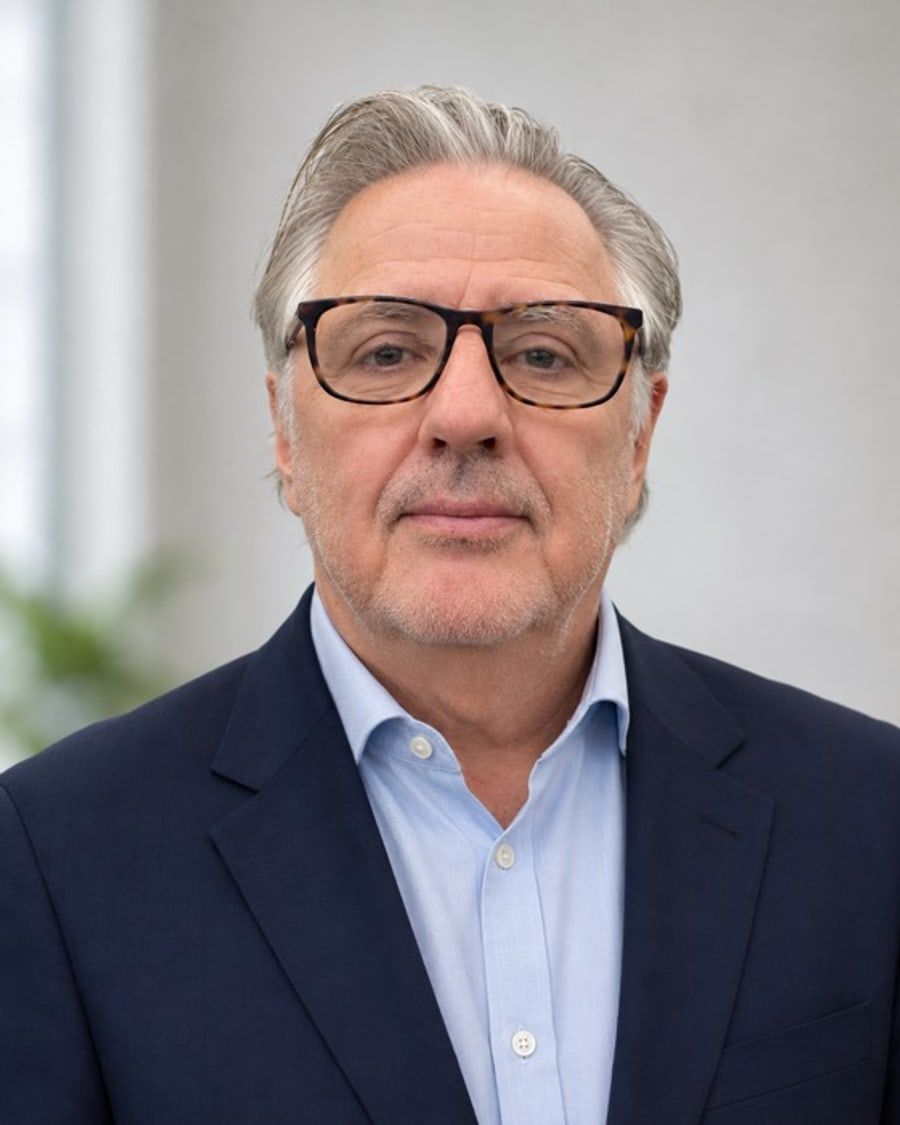
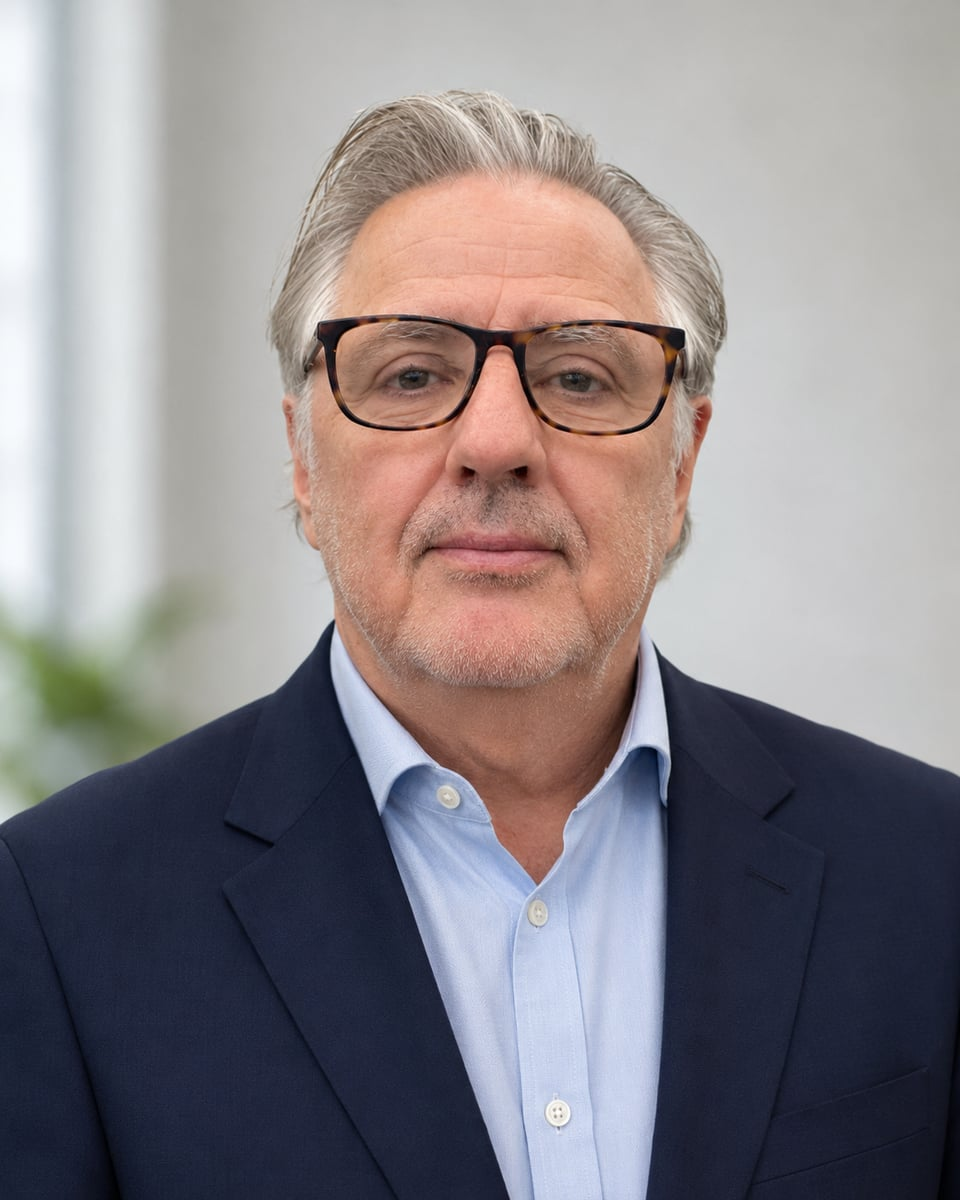
Give the team their faces (#48)
Headshots for nine more of the twenty people on the Team page, each
collected from the person's own institutional or programme profile — the
page they currently use to present themselves in the role we list them
for: Manji (Oxford psychiatry), Narayan (HBGI), Emsley and Breen (KCL
Pure, both from multi-thousand-pixel originals), Rees (Health Innovation
Oxford), Gogarty (official KCL headshot), John (DATAMIND), Stewart (KCL),
Whelan (Manchester Pure, her chosen black-and-white). Eric Lynch's
existing photo is upgraded from the brochure PPTX's larger original.

Every image was eyeballed before insertion, which is what kept Matthias
Pierce out: his only public photo is a personal snapshot with a child
partly in frame — not publishable. He joins Abel (nothing above 179px
exists publicly), Harcourt (200px), Walters (Cardiff blocks all
automated access), Williamson (150px), Hill, McGiveron, Histon and
Sanjeev on the request-internally list; all render as initials until
supplied. images/SOURCES.md records provenance per photo and the full
missing list — licence confirmation stays on the launch checklist.

The render exposed a card bug the exact-4/5 photos had been masking:
neither Media's wrapper div nor the picture element carried height, so
object-cover had no box to cover and any other aspect letterboxed on the
card ground. Both layers now fill the frame; every portrait crops
uniformly.

All ten files are optimised to at most 1200px and 984KB in total — the
[…]

diff --git a/src/endpoints/seed/index.ts b/src/endpoints/seed/index.ts
@@ -121,6 +121,30 @@ export const seed = async ({
     ],
   )
 
+  // Team headshots, each from the person's own institutional or programme
+  // profile — provenance and licence status in images/SOURCES.md. People
+  // without an entry here render as initials until a photo is supplied.
+  const teamPhotoFiles: Record<string, { alt: string; file: string }> = {
+    'Prof. Husseini Manji': { alt: 'Professor Husseini Manji', file: 'husseini-manji.jpg' },
+    'Dr Vaibhav Narayan': { alt: 'Dr Vaibhav Narayan', file: 'vaibhav-narayan.jpg' },
+    'Prof. Richard Emsley': { alt: 'Professor Richard Emsley', file: 'richard-emsley.jpg' },
+    'Dr Siân Rees': { alt: 'Dr Siân Rees', file: 'sian-rees.jpg' },
+    'Eoin Gogarty': { alt: 'Eoin Gogarty', file: 'eoin-gogarty.jpg' },
+    'Prof. Gerome Breen': { alt: 'Professor Gerome Breen', file: 'gerome-breen.jpg' },
+    'Prof. Ann John': { alt: 'Professor Ann John', file: 'ann-john.jpg' },
+    'Prof. Rob Stewart': { alt: 'Professor Rob Stewart', file: 'rob-stewart.jpg' },
+    'Dr Pauline Whelan': { alt: 'Dr Pauline Whelan', file: 'pauline-whelan.jpg' },
+  }
+  const teamPhotos: Record<string, number> = {}
+  for (const [personName, { alt, file }] of Object.entries(teamPhotoFiles)) {
+    const doc = await payload.create({
+      collection: 'media',
+      data: { alt },
+      file: localFile(`images/${file}`),
+    })
+    teamPhotos[personName] = doc.id
+  }
+
   payload.logger.info(`— Seeding categories...`)
 
   const [newsCategory, eventsCategory, explainerCategory] = await Promise.all([
@@ -481,7 +505,7 @@ export const seed = async ({
       payload.create({
         collection: 'people',
         context: { disableRevalidate: true },
-        data,
+        data: { ...data, photo: teamPhotos[data.name] ?? data.photo },
       }),
     ),
   )

diff --git a/src/blocks/People/Component.tsx b/src/blocks/People/Component.tsx
@@ -74,7 +74,13 @@ const PersonCard: React.FC<{ person: Person; index: number }> = ({ person, index
       <div className="aspect-[4/5] w-full overflow-hidden bg-card">
         {person.photo && typeof person.photo === 'object' ? (
           <Media
+            // Every layer between the 4/5 frame and the img must carry full
+            // height — Media's wrapper div and the picture element — or
+            // object-cover has no box to cover, and any non-4/5 photo
+            // letterboxes on the card ground instead of cropping.
+            className="block h-full w-full"
             imgClassName="h-full w-full object-cover"
+            pictureClassName="block h-full w-full"
             resource={person.photo}
             size={SIZE_PERSON_CARD}
           />

diff --git a/src/endpoints/seed/images/SOURCES.md b/src/endpoints/seed/images/SOURCES.md
@@ -1,0 +1,38 @@
+# Team headshot provenance
+
+Collected 2026-09-01 from each person's own institutional or programme profile
+— the page they currently use to present themselves in the role we list them
+for. **Licence status: pending team confirmation** (launch checklist, gate 2).
+Institutional profile photos are generally the person's own supplied image, but
+formal reuse permission should be confirmed with each person before launch —
+one email per person, and any of these can be swapped in `/admin` with no code
+change.
+
+| Person               | File                | Source page                                                              | Image                                  |
+| -------------------- | ------------------- | ------------------------------------------------------------------------ | -------------------------------------- |
+| Prof. Husseini Manji | husseini-manji.jpg  | https://www.psych.ox.ac.uk/team/husseini-manji                           | portrait asset, 1140px                 |
+| Dr Vaibhav Narayan   | vaibhav-narayan.jpg | https://hbgi.org/advisory-board-vaibhav-narayan                          | wp upload, 960px                       |
+| Prof. Richard Emsley | richard-emsley.jpg  | https://kclpure.kcl.ac.uk/portal/en/persons/richard-emsley               | files-asset, 5184px original           |
+| Dr Siân Rees         | sian-rees.jpg       | https://www.healthinnovationoxford.org/about-us/our-people/dr-sian-rees/ | wp upload, 1388px original             |
+| Eoin Gogarty         | eoin-gogarty.jpg    | https://www.kcl.ac.uk/people/eoin-gogarty                                | official KCL headshot, 5512px original |
+| Prof. Gerome Breen   | gerome-breen.jpg    | https://kclpure.kcl.ac.uk/portal/en/persons/gerome-breen                 | files-asset, 3817px original           |
+| Prof. Ann John       | ann-john.jpg        | https://datamind.org.uk/portfolio/professor-ann-john/                    | wp upload, 511px                       |
+| Prof. Rob Stewart    | rob-stewart.jpg     | https://www.kcl.ac.uk/people/professor-robert-stewart                    | person-profile asset, 1728px original  |
+| Dr Pauline Whelan    | pauline-whelan.jpg  | https://research.manchester.ac.uk/en/persons/pauline.whelan              | Pure portrait (b/w), 479px             |
+| Prof. Mitul Mehta    | mitul-mehta.jpg     | MHG IEF brochure (programme-owned)                                       | pre-existing                           |
+| Eric Lynch           | eric-lynch.jpg      | MHG brochure pptx (programme-owned)                                      | upgraded to 1122px original            |
+
+## No adequate public photo — request internally
+
+- **Prof. Kathryn Abel** — only a 179px thumbnail exists publicly (Manchester Pure/Presspage)
+- **Prof. Edward Harcourt** — only 200x240 (Oxford philosophy / TORCH)
+- **Prof. James Walters** — Cardiff pages block automated access
+- **Prof. Paula Williamson** — only 150x200 (COMET); Liverpool page renders no photo
+- **Dr Matthias Pierce** — his public Pure photo is a personal snapshot including a child; not publishable
+- **Non Hill** — no public photo found
+- **Dr Kerrie McGiveron** — no public photo found
+- **Dr Trina Histon** — company domain is parked; no public source
+- **Sidharth Sanjeev** — no public page found
+
+These render as initials until supplied; photos can be added in `/admin`
+(Media + Team) or dropped into this folder and wired in the seed.
